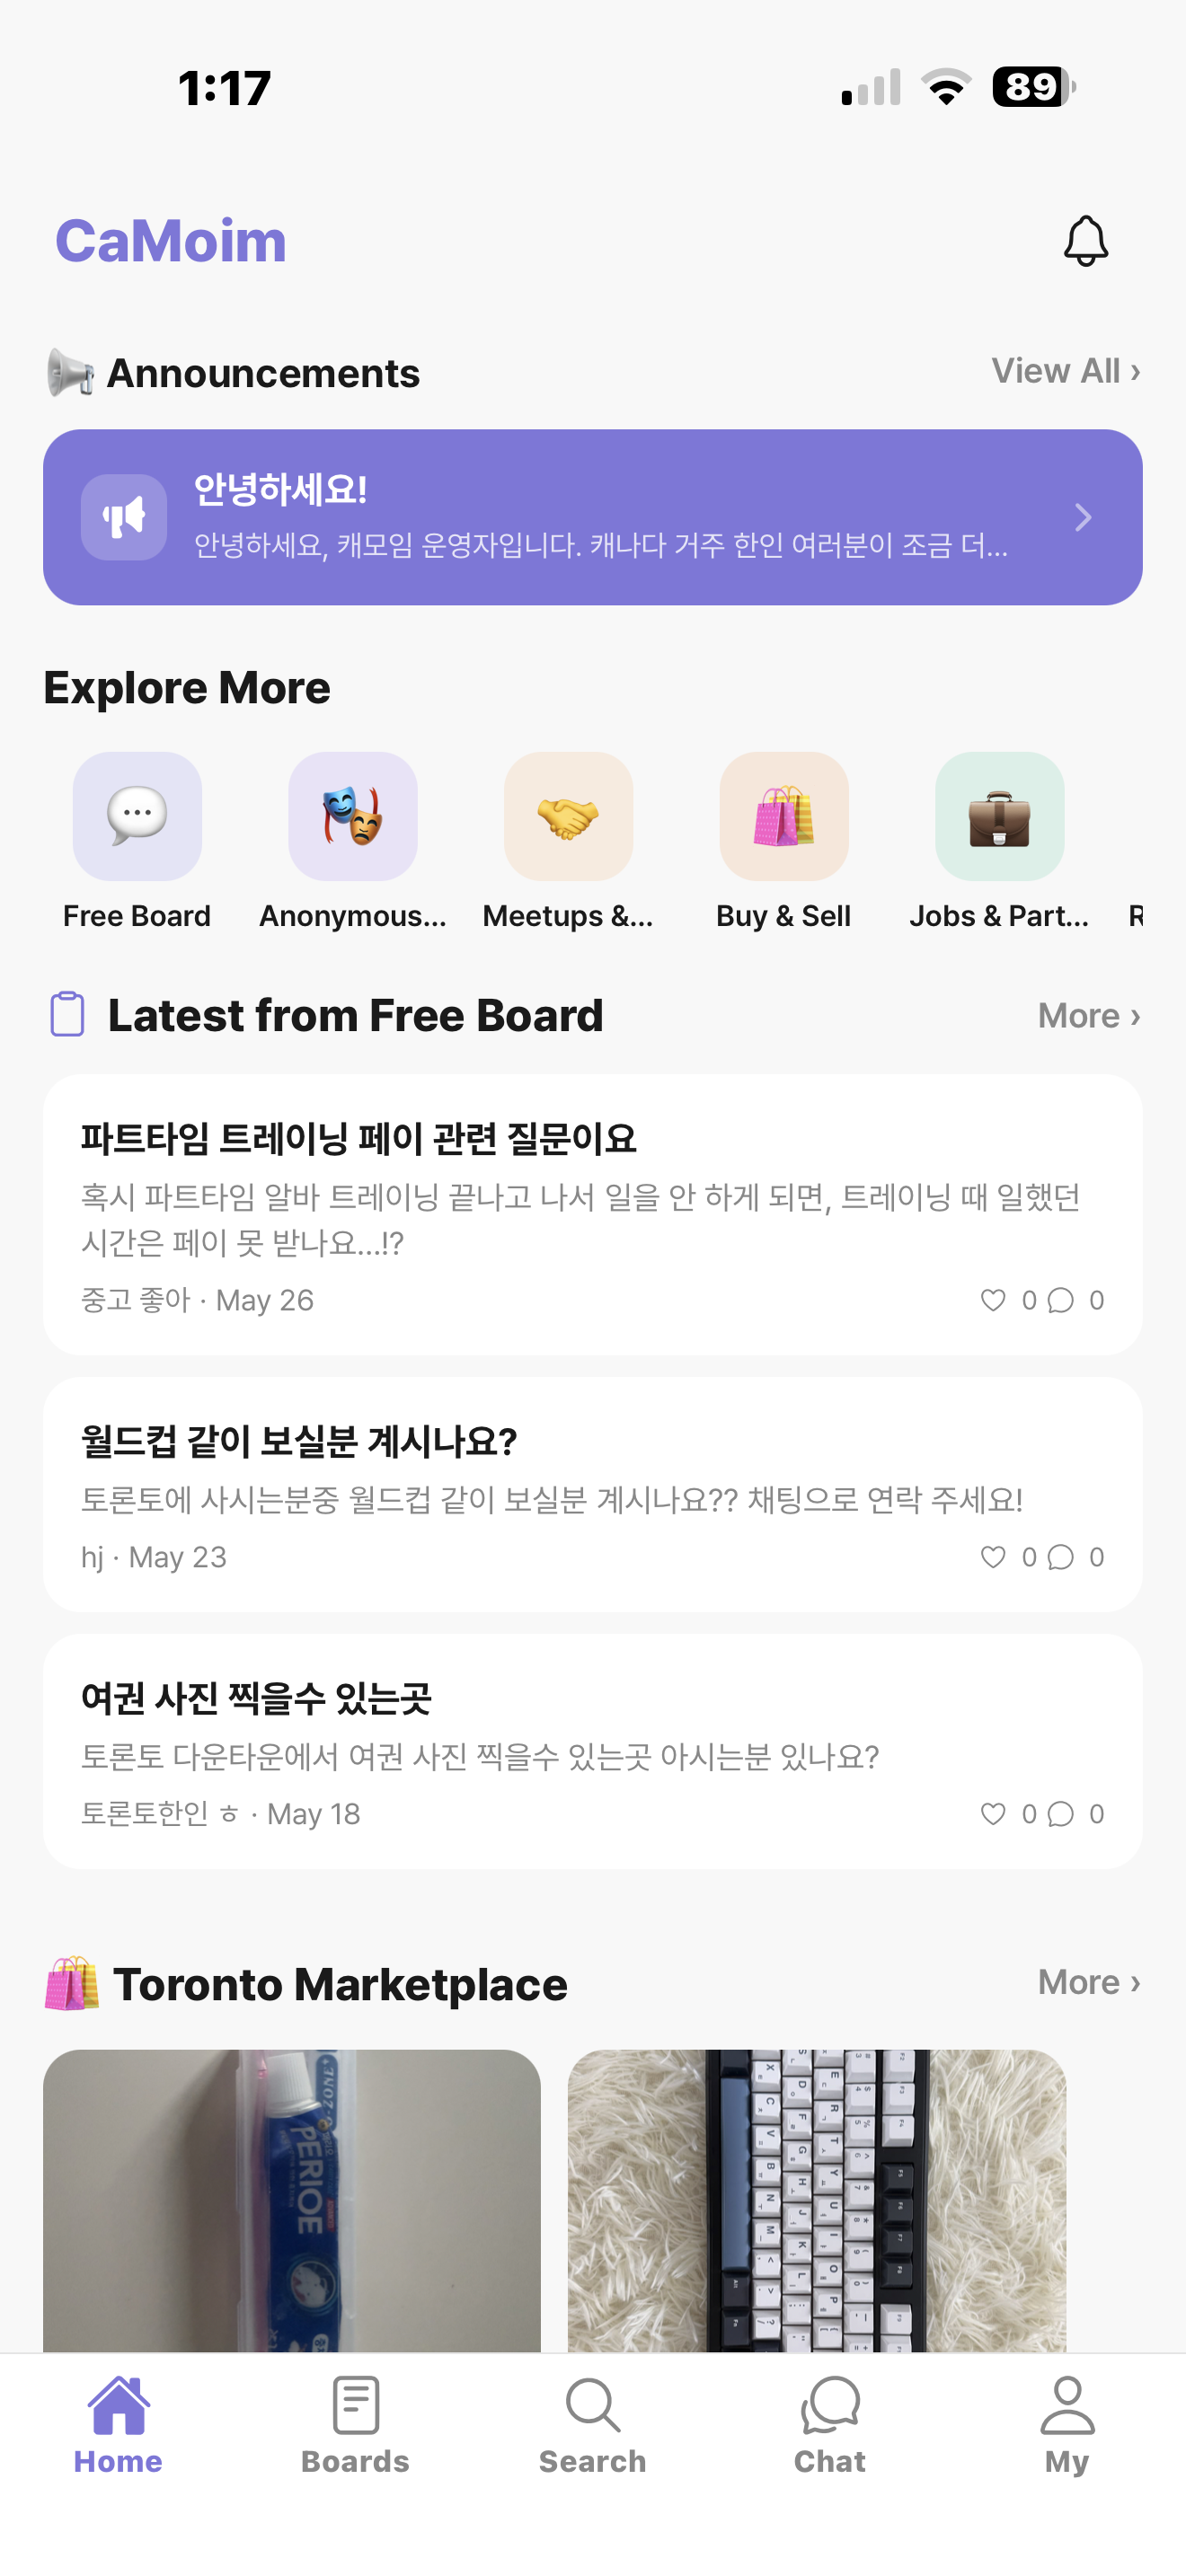
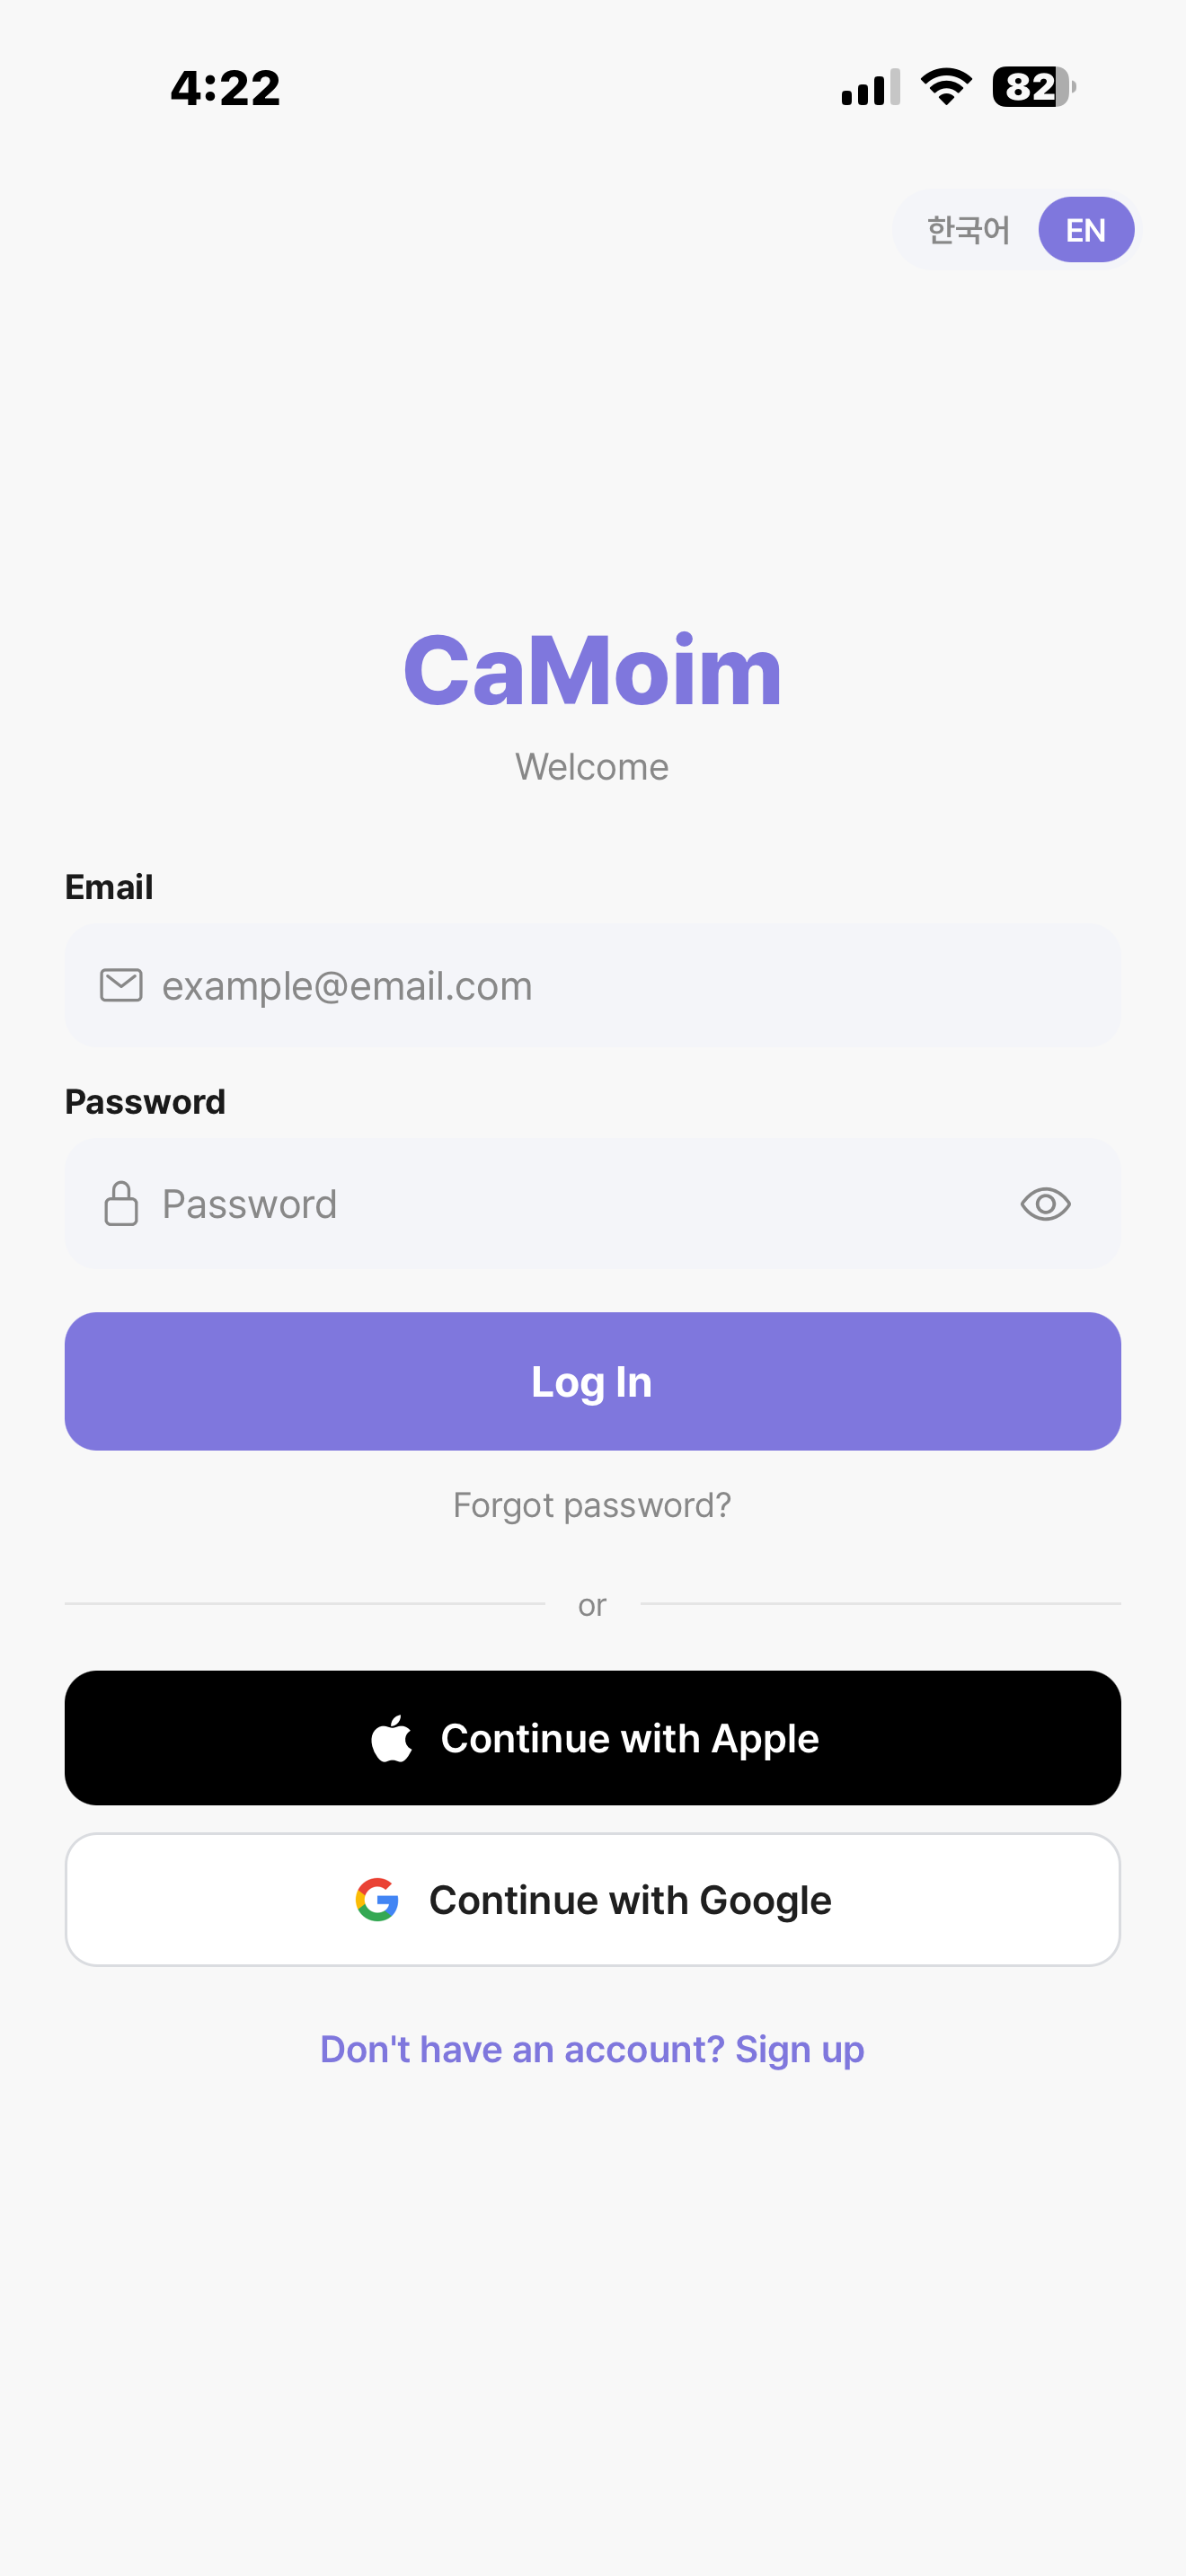
feat(projects): CaMoim screenshot carousel + PetDate live link
- Add 7 CaMoim app screenshots (image6–12) as an auto-advancing carousel
  in the featured card (2s interval, pause on hover, prev/next arrows, dots)
- Add PetDate "Live Site" button (pet-app-frontend-fawn.vercel.app)

diff --git a/client/src/pages/Projects.js b/client/src/pages/Projects.js
@@ -1,5 +1,5 @@
 // src/pages/Projects.js
-import React from "react";
+import React, { useEffect, useState } from "react";
 
 const BASE = process.env.PUBLIC_URL;
 
@@ -10,8 +10,7 @@ const projectData = [
     badge: "Live · iOS & Android",
     description:
       "Cross-platform community app for Koreans across Canada — school verification, group meetups, and a multi-board feed. Real-time chat (1:1, group rooms, school lounges) with push notifications.",
-    image: `${BASE}/images/image6.jpg`,
-    imageClass: "object-cover object-top",
+    gallery: [6, 7, 8, 9, 10, 11, 12].map((n) => `${BASE}/images/image${n}.jpg`),
     stack: ["React Native", "Expo", "Node.js", "MongoDB", "Socket.io"],
     links: [
       {
@@ -32,6 +31,7 @@ const projectData = [
     image: `${BASE}/images/image5.jpg`,
     stack: ["Next.js", "TypeScript", "Socket.io", "MongoDB", "AWS S3"],
     links: [
+      { label: "Live Site", icon: "language", href: "https://pet-app-frontend-fawn.vercel.app" },
       { label: "Frontend", icon: "code", href: "https://github.com/HyeonjunSon/petApp-frontend" },
       { label: "Backend", icon: "code", href: "https://github.com/HyeonjunSon/petApp-server" },
     ],
@@ -83,6 +83,69 @@ const projectData = [
   },
 ];
 
+function ImageCarousel({ images, alt }) {
+  const [i, setI] = useState(0);
+  const [paused, setPaused] = useState(false);
+  const n = images.length;
+  const go = (d) => setI((p) => (p + d + n) % n);
+
+  useEffect(() => {
+    if (paused || n <= 1) return;
+    const t = setInterval(() => setI((p) => (p + 1) % n), 2000);
+    return () => clearInterval(t);
+  }, [paused, n]);
+
+  return (
+    <div
+      className="relative w-full"
+      onMouseEnter={() => setPaused(true)}
+      onMouseLeave={() => setPaused(false)}
+    >
+      <div className="relative h-[320px] md:h-[440px] flex items-center justify-center">
+        {images.map((src, idx) => (
+          <img
+            key={src}
+            src={src}
+            alt={`${alt} screenshot ${idx + 1}`}
+            loading={idx === 0 ? "eager" : "lazy"}
+            className={`absolute max-h-full w-auto object-contain rounded-xl shadow-2xl ring-1 ring-white/10 transition-opacity duration-700 ${
+              idx === i ? "opacity-100" : "opacity-0 pointer-events-none"
+            }`}
+          />
+        ))}
+      </div>
+
+      <button
+        onClick={() => go(-1)}
+        aria-label="Previous screenshot"
+        className="absolute left-2 top-1/2 -translate-y-1/2 h-9 w-9 grid place-items-center rounded-full bg-surface/70 backdrop-blur border border-white/10 text-on-surface hover:border-secondary hover:text-secondary transition-colors"
+      >
+        <span className="material-symbols-outlined">chevron_left</span>
+      </button>
+      <button
+        onClick={() => go(1)}
+        aria-label="Next screenshot"
+        className="absolute right-2 top-1/2 -translate-y-1/2 h-9 w-9 grid place-items-center rounded-full bg-surface/70 backdrop-blur border border-white/10 text-on-surface hover:border-secondary hover:text-secondary transition-colors"
+      >
+        <span className="material-symbols-outlined">chevron_right</span>
+      </button>
+
+      <div className="absolute bottom-2 left-1/2 -translate-x-1/2 flex gap-1.5">
+        {images.map((src, idx) => (
+          <button
+            key={src}
+            onClick={() => setI(idx)}
+            aria-label={`Go to screenshot ${idx + 1}`}
+            className={`h-1.5 rounded-full transition-all ${
+              idx === i ? "w-5 bg-secondary" : "w-1.5 bg-white/30 hover:bg-white/60"
+            }`}
+          />
+        ))}
+      </div>
+    </div>
+  );
+}
+
 export default function Projects() {
   const [featured, ...rest] = projectData;
 
@@ -108,11 +171,7 @@ export default function Projects() {
       <section className="max-w-container-max mx-auto px-gutter mb-gutter">
         <div className="glass-card group rounded-xl overflow-hidden flex flex-col md:flex-row">
           <div className="md:w-2/5 relative flex items-center justify-center p-6 md:p-8 bg-gradient-to-br from-surface-container-high to-surface-container-lowest">
-            <img
-              src={featured.image}
-              alt={featured.title}
-              className="max-h-[300px] md:max-h-[420px] w-auto object-contain rounded-xl shadow-2xl ring-1 ring-white/10"
-            />
+            <ImageCarousel images={featured.gallery} alt={featured.title} />
             {featured.badge && (
               <span className="absolute top-4 left-4 inline-flex items-center gap-1 font-label-caps text-label-caps uppercase text-secondary bg-surface/70 backdrop-blur px-3 py-1 rounded-full border border-secondary/30">
                 <span className="h-1.5 w-1.5 rounded-full bg-secondary animate-pulse" />